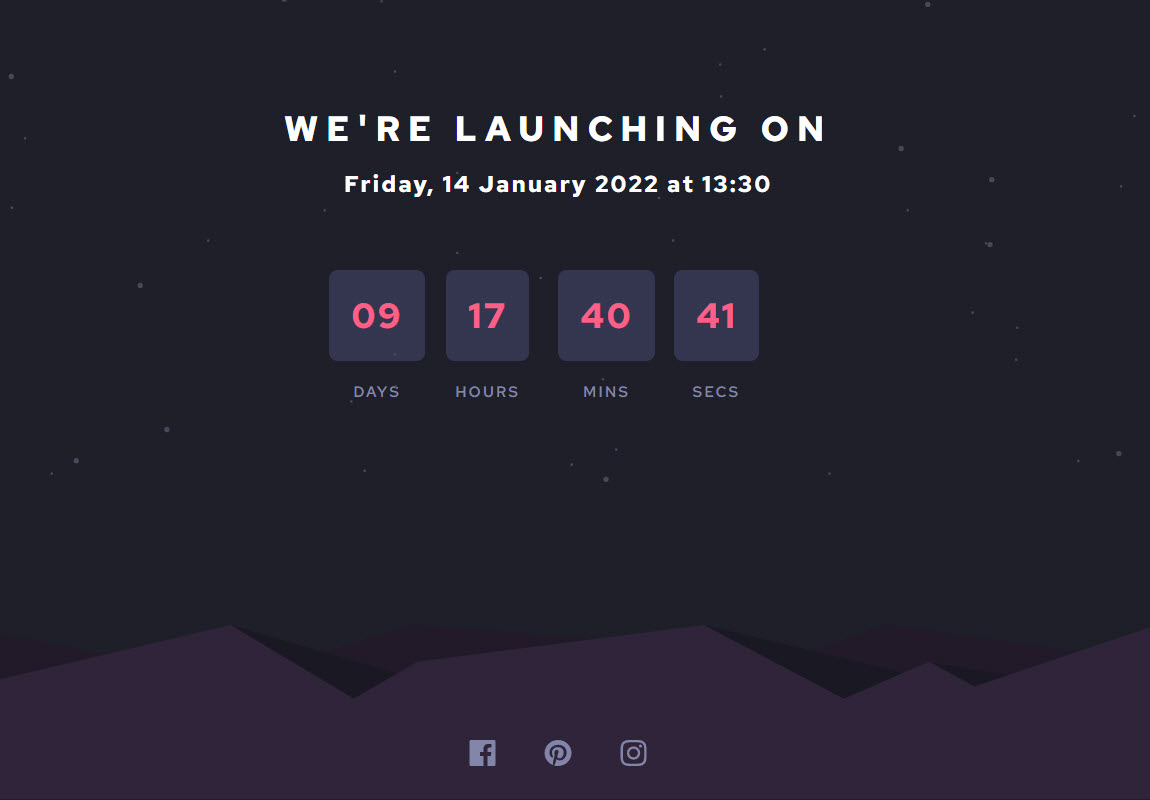
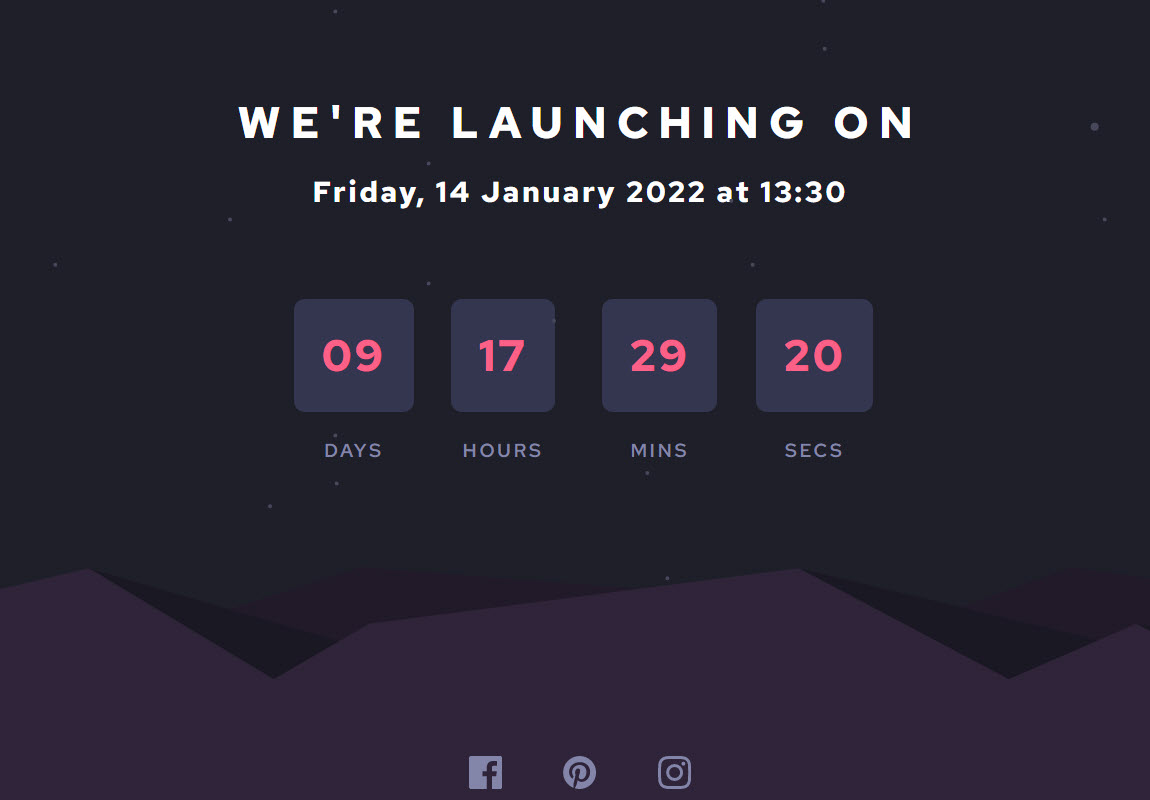
changed some style

diff --git a/javascript-projects/20-countdown/styles.css b/javascript-projects/20-countdown/styles.css
@@ -21,7 +21,8 @@ a {
   text-decoration: none;
 }
 .container {
-  color: white;
+  color: #fff;
+  text-align: center;
   display: flex;
   flex-direction: column;
   justify-content: center;
@@ -52,7 +53,7 @@ a {
   display: flex;
 }
 .deadline-format {
-  margin-right: 1.5rem;
+  margin: auto 1rem;
   width: 5rem;
   height: 5rem;
   display: grid;
